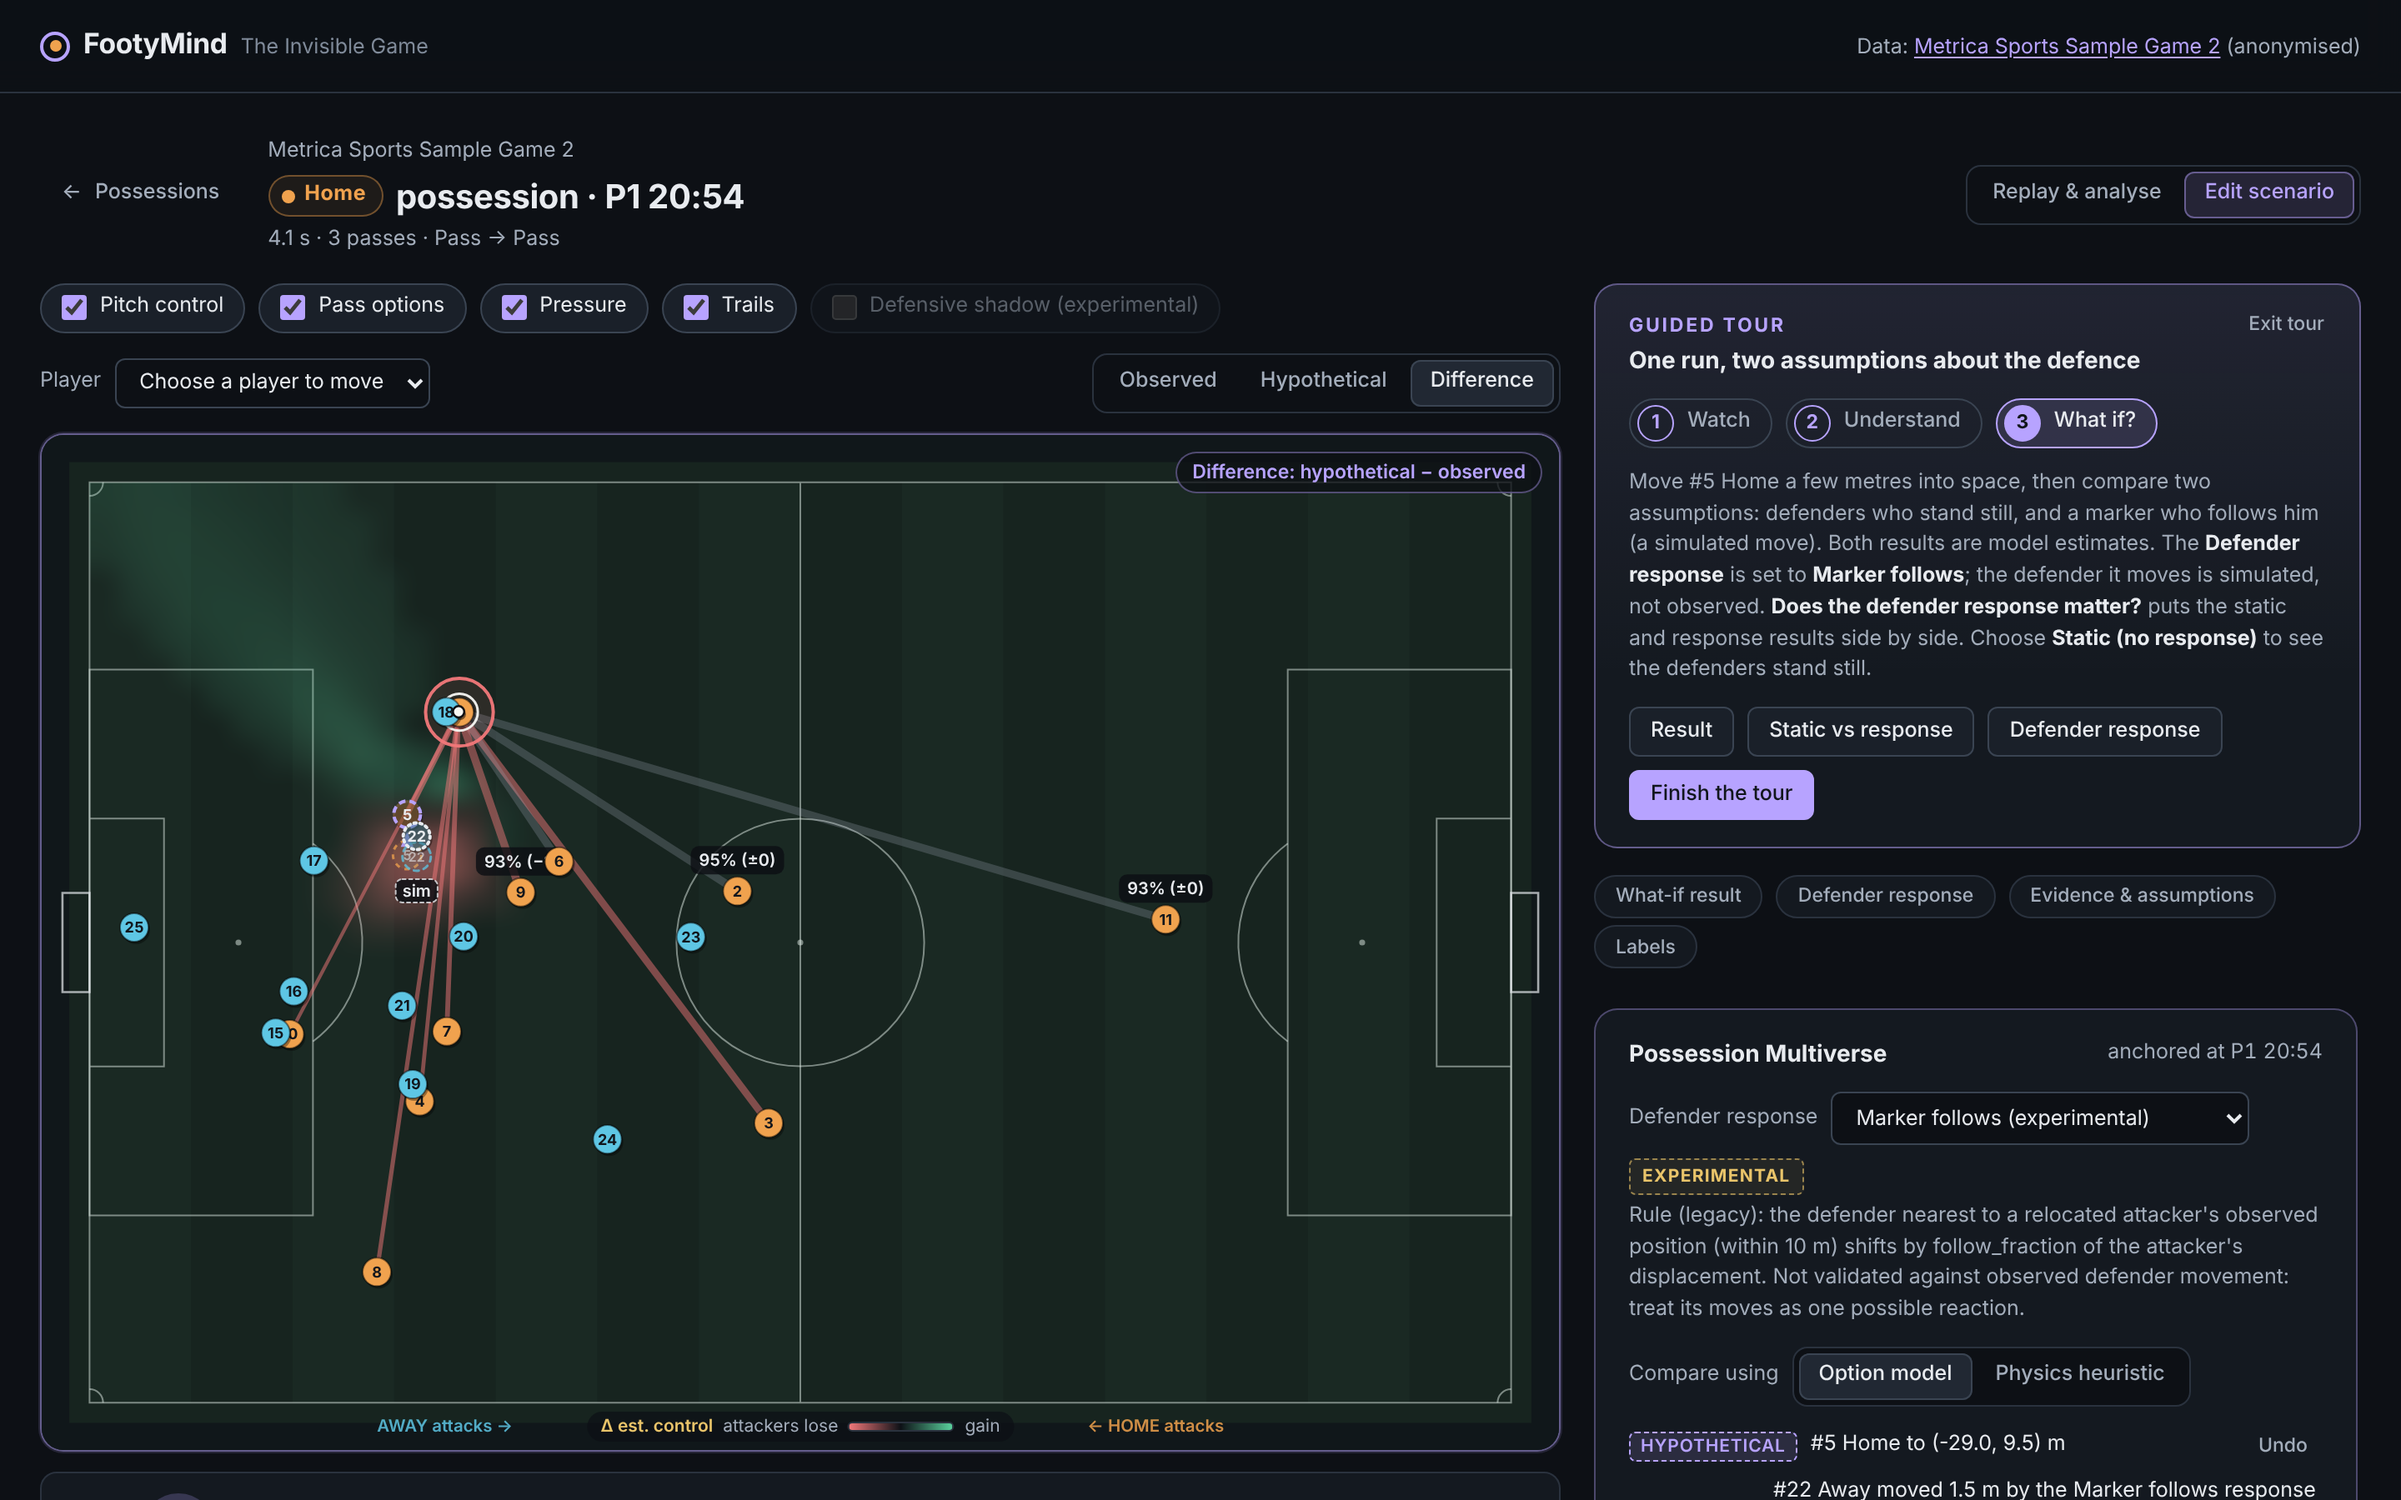
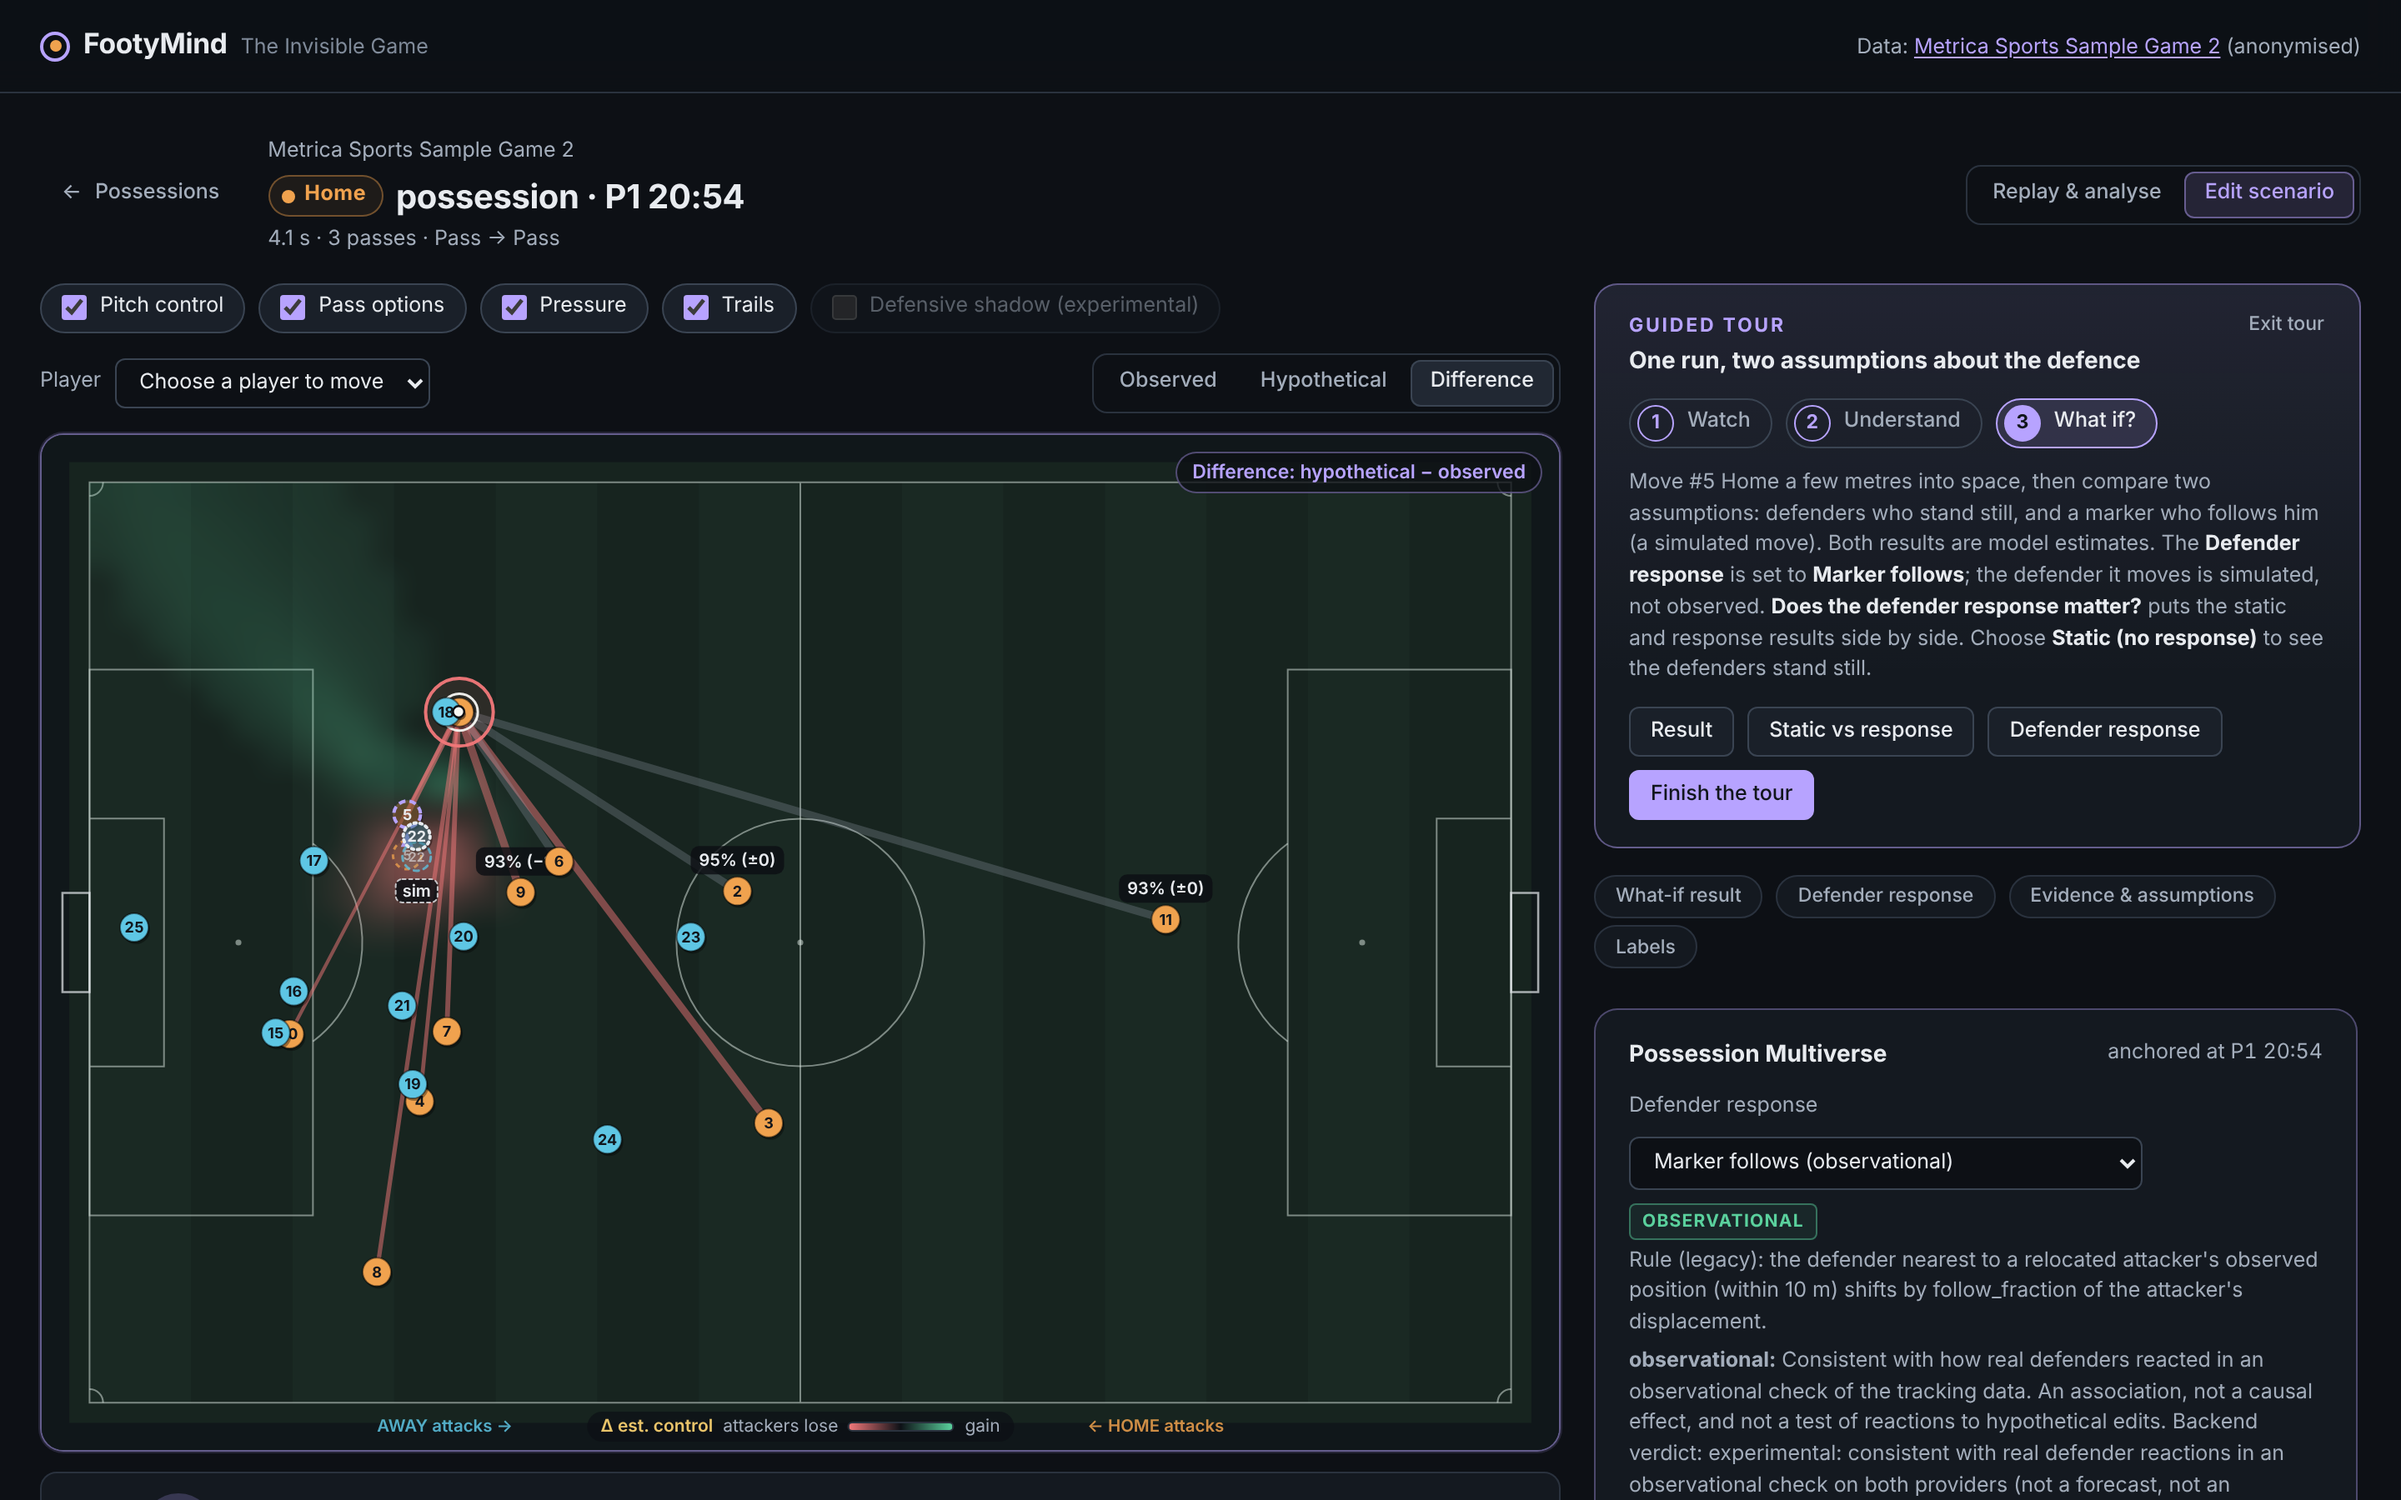
web/README: npm ci, e2e data needs, policy verdicts; refresh screenshots showing the badges

Changed region(s): [[0.6562, 0.7156, 0.9688, 1.0]]

diff --git a/web/README.md b/web/README.md
@@ -30,9 +30,13 @@ uv run footymind serve                                  # API on :8000
 
 # 2. frontend dev server (proxies /api to :8000)
 cd web
-npm install
+npm ci                 # exact versions from package-lock.json
 npm run dev            # http://localhost:5173
 ```
+
+With only the Metrica matches ingested (as above, and the Docker default), the
+landing page shows the featured situations whose match is in `GET /api/matches`
+and notes that the broadcast example needs SkillCorner data.
 
 Production: `npm run build` writes `web/dist`, which FastAPI mounts at `/` when it
 exists, so `http://127.0.0.1:8000/` serves the app and API from one origin.
@@ -55,6 +59,19 @@ and the Vite server unless they are already running, so export
 production build served by FastAPI instead. With a preinstalled Chromium the
 config falls back to `/opt/pw-browsers/chromium`, or you can set `PW_CHROMIUM`.
 
+**Data the e2e suite needs.** The Metrica matches above, plus SkillCorner bundles
+for the broadcast tests (the broadcast featured card, estimated off-camera
+positions, team names and the screenshots use `skillcorner-1899585` and other
+SkillCorner matches). On a Metrica-only setup those tests fail: first run
+`uv run footymind download` and `uv run footymind ingest` with no ids (every
+registered match, about 2 GB) and `uv run footymind build-similarity-index`. `npx playwright install` is not needed where a
+Chromium is preinstalled.
+
+`src/test/api/` holds the key names of real API responses and the real
+`GET /api/response-policies` payload (no tracking data), which the contract test
+compares with `types.ts`. Refresh them after a schema change with
+`FOOTYMIND_API=http://127.0.0.1:8000 node scripts/capture-api-samples.mjs`.
+
 ## Using the lab
 
 0. **New here?** Start the guided tour from the landing page. It opens a featured
@@ -75,9 +92,16 @@ config falls back to `/opt/pw-browsers/chromium`, or you can set `PW_CHROMIUM`.
    column. Jump links at the top of the analysis column reach "Why this moment",
    pass options, similar moments, events and the labels key.
 4. **Edit scenario**: drag up to four players. While you drag, the dashed circle
-   shows where the player could have reached (7 m/s from the observed position
-   1.5 s earlier). On drop, the backend re-runs the model. You can choose the
-   defender response, compare by the option model or the physics heuristic, switch
+   shows the reachable region the API computes for that player (its radius,
+   `reach_radius_m`, is a top-speed limit from the observed position shortly
+   before; the evidence list repeats each moved player's radius). On drop, the
+   backend re-runs the model. You can choose the defender response, each labelled
+   with its verdict from the API's `status`: *observational* (consistent with real
+   defender reactions in an observational check; not causal), *forecaster*
+   (validated as a forecast of real play, not of reactions), *not supported* (the
+   check does not support the rule) or *experimental* (no verdict). The learned
+   reaction also warns when an edit exceeds the attacker movement it was fitted
+   on. You can compare by the option model or the physics heuristic, switch
    between observed, hypothetical and difference views, and read the deltas with
    their 10–90% ensemble ranges, sign agreement and the evidence and assumptions.
    The response models react to a moved attacker or ball carrier; when only
